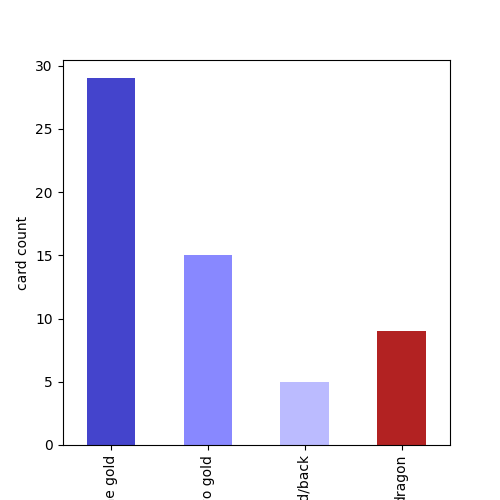
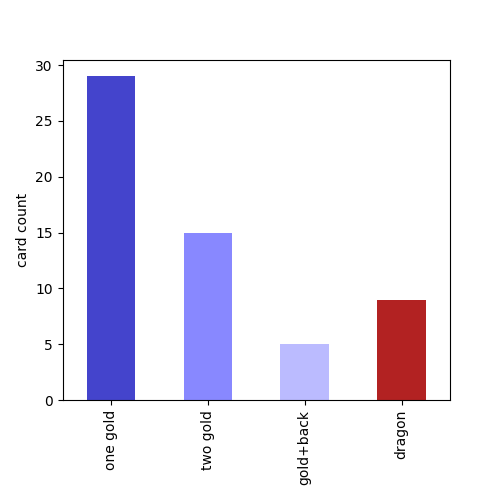
fix plot labels

diff --git a/articles/frequency/plots.py b/articles/frequency/plots.py
@@ -9,16 +9,22 @@ import seaborn as sns
 from matplotlib import pyplot as plt
 
 # create data
-s = pd.Series([29, 15, 5, 9], index=list("one gold,two gold,one gold/back,dragon".split(",")))
+data = [29, 15, 5, 9]
+labels = list("one gold,two gold,gold+back,dragon".split(","))
+s = pd.Series(data, index=labels)
 
 # vertical bar plot
+fig = plt.figure()
 s.plot.bar(figsize=(5, 5), color=["#4444cc", "#8888ff", "#bbbbff", "firebrick"])
 plt.ylabel("card count")
+fig.subplots_adjust(bottom=0.2)
 plt.savefig("bar_vert.png", dpi=100)
 
 # horizontal bar plot
-s.plot.barh(figsize=(5, 5), color=["#4444cc", "#8888ff", "#bbbbff", "firebrick"])
+fig = plt.figure()
+s.plot.barh(figsize=(6, 5), color=["#4444cc", "#8888ff", "#bbbbff", "firebrick"])
 plt.xlabel("card count")
+fig.subplots_adjust(left=0.2)
 plt.savefig("bar_horiz.png", dpi=100)
 
 # pie chart

diff --git a/articles/frequency/README.rst b/articles/frequency/README.rst
@@ -21,7 +21,6 @@ Core Concepts
 
 - absolute frequency
 - relative frequency
-- ratio
 - percentage
 - probability
 - bar plot
@@ -45,7 +44,7 @@ The mining expedition quickly turns into a messy *"get rich or die trying"* scen
    The mine + dwarf + dragon theme is engaging and the number of cards actually results
    in interesting charts.
 
-.. topic:: What if I don't have any of these games?
+   **What if I don't have any of these games?**
 
    The main point is that you have a diverse set of countable items.
    The lesson structure works by counting the items in a box of chess pieces or a bag of candies.
@@ -86,7 +85,7 @@ This is how the board might look like:
 
 .. figure:: my_gold_mine_board.jpg
 
-Here are some bar and pie charts created with a :download:`plots.py`:
+Here are some bar and pie charts created with the Python script :download:`plots.py`:
 
 .. figure:: bar_vert.png
    
